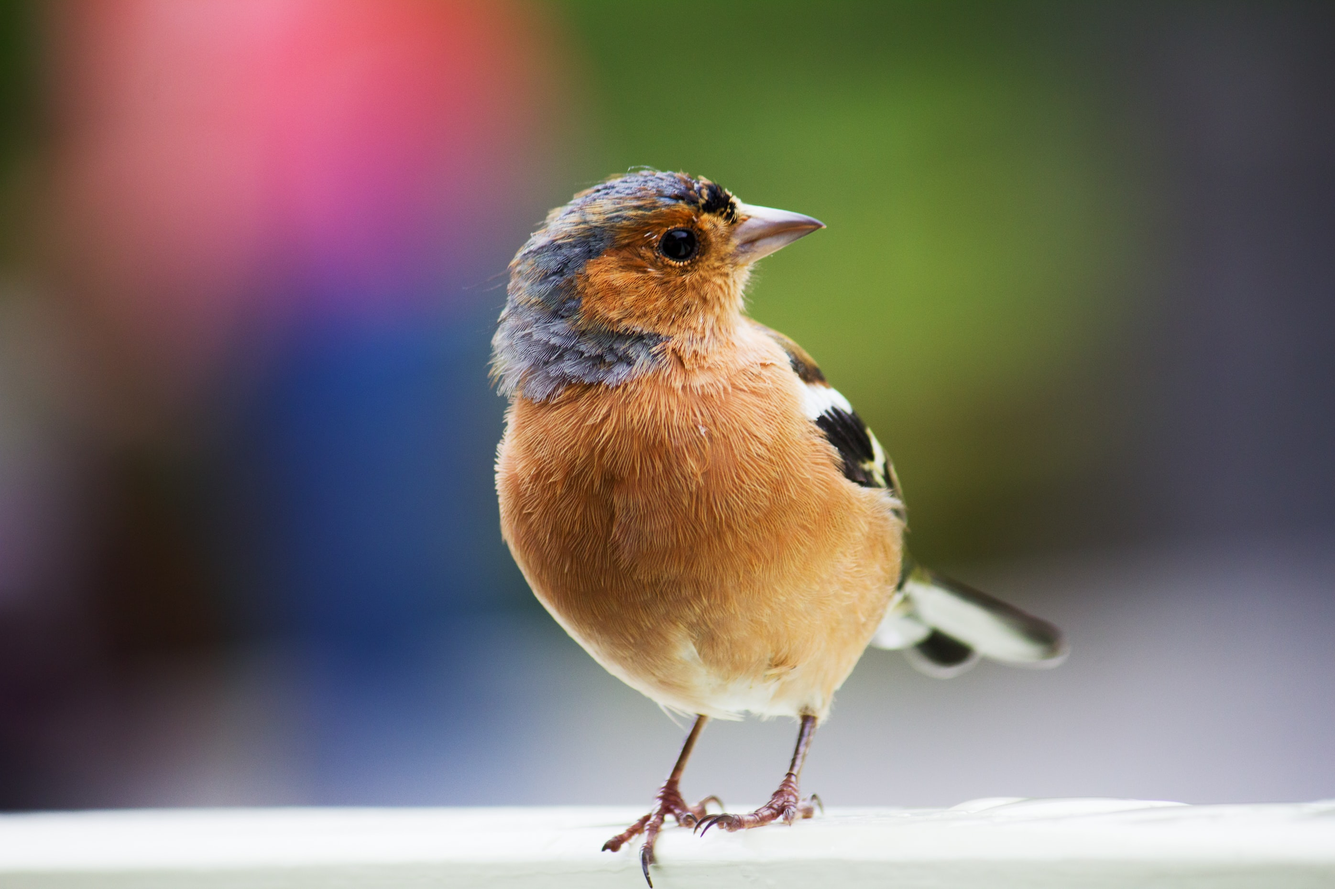
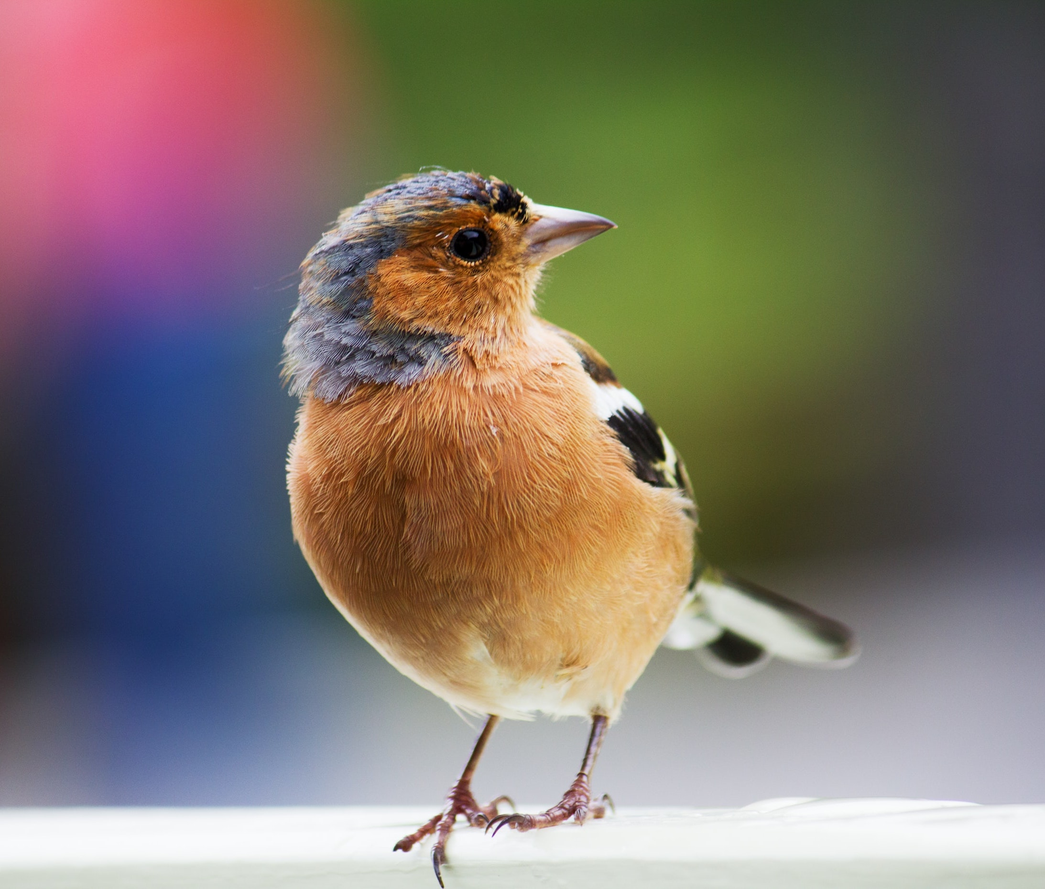
cropped photos, started styling projects page

diff --git a/projects.html b/projects.html
@@ -1,26 +1,36 @@
 <!DOCTYPE html>
 <html lang="en">
-<head>
-    <meta charset="UTF-8">
-    <meta http-equiv="X-UA-Compatible" content="IE=edge">
-    <meta name="viewport" content="width=device-width, initial-scale=1.0">
+  <head>
+    <meta charset="UTF-8" />
+    <meta http-equiv="X-UA-Compatible" content="IE=edge" />
+    <meta name="viewport" content="width=device-width, initial-scale=1.0" />
+    <link rel="stylesheet" href="projects.css" />
     <title>Allison's Porfolio Projects</title>
-</head>
-<body>
+  </head>
+  <body>
     <header>
-
+      <h1>Portfolio Projects</h1>
     </header>
     <main>
-        <div class="birds">
-            <a href="https://abgelvin.github.io/bird-club-website/"><img src="photos/bird.jpg" alt="photo of a bird"></a>
-        </div>
-        <div class="bikes">
-            <a href="https://github.com/abgelvin/allisons-bicycle-tours/deployments/activity_log?environment=github-pages"><img src="photos/biker.jpg" alt="photo of biker"></a>
-        </div>
-        <div class="design">
-            <a href="https://abgelvin.github.io/website-design-system2/"><img src="photos/shapes.jpg" alt="image of various shapes"></a>
-        </div>
-
+      <div class="birds">
+        <h2>Ridgway Bird Club</h2>
+        <a href="https://abgelvin.github.io/bird-club-website/"
+          ><img src="photos/bird.jpg" alt="photo of a bird"
+        /></a>
+      </div>
+      <div class="bikes">
+        <h2>Allison's Bicycle Tours</h2>
+        <a
+          href="https://github.com/abgelvin/allisons-bicycle-tours/deployments/activity_log?environment=github-pages"
+          ><img src="photos/biker.jpg" alt="photo of biker"
+        /></a>
+      </div>
+      <div class="design">
+        <h2>Website Design System</h2>
+        <a href="https://abgelvin.github.io/website-design-system2/"
+          ><img src="photos/shapes.jpg" alt="image of various shapes"
+        /></a>
+      </div>
     </main>
-</body>
+  </body>
 </html>

diff --git a/projects.css b/projects.css
@@ -1,0 +1,46 @@
+main {
+    display: flex;
+    justify-content: space-evenly;
+    margin-top: 200px;
+}
+
+h1 {
+    text-align: center;
+}
+
+.birds {
+    position: relative;
+    width: 300px;
+    height: 300px;
+    border: 2px solid black;
+    border-radius: 5px;
+            
+}
+
+.bikes {
+    position: relative;
+    width: 300px;
+    height: 300px;
+    border: 2px solid black;
+    border-radius: 5px;
+}
+
+.design {
+    position: relative;
+    width: 300px;
+    height: 300px;
+    border: 2px solid black;
+    border-radius: 5px;
+}
+
+img {
+    width: 100%;
+    
+   
+}
+
+h2 {
+    position: absolute;
+    z-index: 1;
+
+}
